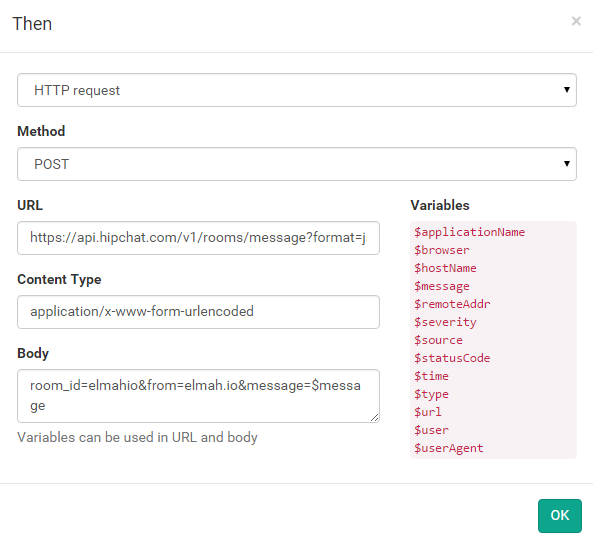
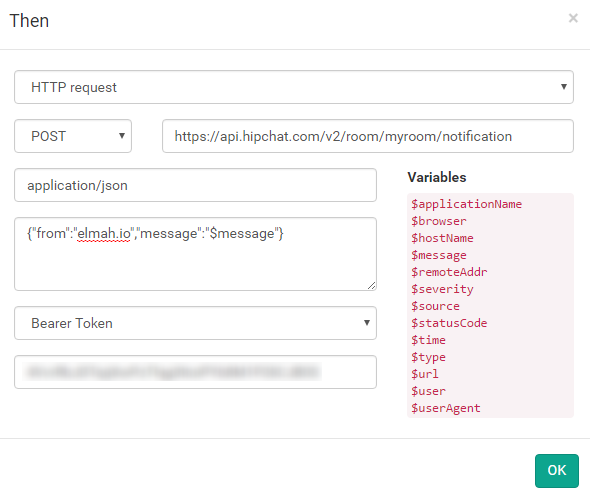
Build newest version

diff --git a/integrate-elmah-io-with-hipchat/index.html b/integrate-elmah-io-with-hipchat/index.html
@@ -334,12 +334,12 @@ j=d.createElement(s),dl=l!='dataLayer'?'&l='+l:'';j.async=true;j.src=
             <div class="col-md-9" role="main"><div class="docs-box">
 
 <h1 id="integrate-with-hipchat">Integrate with HipChat</h1>
-<p>Before we dig into the details of elmah.io, you should sign up or log into HipChat. Create a new room for your team and go to the API page. Create a new token with the Notification type and label it something meaningful:</p>
+<p>Before we dig into the details of elmah.io, you should sign up or log into HipChat. Create a new room for your team and go to the <a href="https://youraccount.hipchat.com/account/api">API page</a> (replace <code>youraccount</code> with your account name). Create a new token with the <em>Send Notification</em> type and label it something meaningful:</p>
 <p><img alt="HipChat API Page" src="../images/hipchat_api_page.png" /></p>
 <p>We will need the generated token in a minute, so keep that tab open.</p>
 <p>On elmah.io, go to the Rules tab beneath your log settings. In this example we want a message on HipChat every time a new error is logged in our elmah.io log. To do this, name your rule and input a query like illustrated on the following screenshot:</p>
 <p><img alt="Add HTTP Request Rule" src="../images/add_new_hipchat_rule.png" /></p>
-<p>Hit the Then link and select HTTP request. Input the following values (remember to replace YOUR_TOKEN and YOUR_ROOM):</p>
+<p>Hit the Then link and select HTTP request. Input the following values (remember to replace <code>YOUR_TOKEN</code> and <code>YOUR_ROOM</code>):</p>
 <table>
 <thead>
 <tr>
@@ -354,15 +354,23 @@ j=d.createElement(s),dl=l!='dataLayer'?'&l='+l:'';j.async=true;j.src=
 </tr>
 <tr>
 <td>URL</td>
-<td>https://api.hipchat.com/v1/rooms/message?format=json&amp;auth_token=YOUR_TOKEN</td>
+<td>https://api.hipchat.com/v2/room/YOUR_ROOM/notification</td>
 </tr>
 <tr>
 <td>Content Type</td>
-<td>application/x-www-form-urlencoded</td>
+<td>application/json</td>
 </tr>
 <tr>
 <td>Body</td>
-<td>room_id=YOUR_ROOM&amp;from=elmah.io&amp;message=$message</td>
+<td>{"from":"elmah.io","message":"$message"}</td>
+</tr>
+<tr>
+<td>Authentication</td>
+<td>Bearer Token</td>
+</tr>
+<tr>
+<td>Token</td>
+<td>YOUR_TOKEN</td>
 </tr>
 </tbody>
 </table>
@@ -371,7 +379,7 @@ j=d.createElement(s),dl=l!='dataLayer'?'&l='+l:'';j.async=true;j.src=
 <p>Click the OK button and add the new rule by clicking Add. This configuration tells elmah.io, to make a HTTP request against the HipChat API, every time a new error is logged. The message at elmah.io is shown as the chat message inside HipChat:</p>
 <p><img alt="Errors on HipChat" src="../images/elmah_io_error_on_hipchat.png" /></p>
 <blockquote>
-<p>HipChat doesn't allow more than 500 requests per 5 minutes. If you generate more messages to elmah.io, not all of them will show up in HipChat because of this.</p>
+<p>HipChat doesn't allow more than 500 requests per 5 minutes. If you generate more messages to elmah.io, not all of them will show up in HipChat because of this</p>
 </blockquote>
 
 <button type="button" class="btn btn-lg btn-primary navbar-btn" data-toggle="modal" data-target="#signinModal">Give elmah.io a try now</button>
